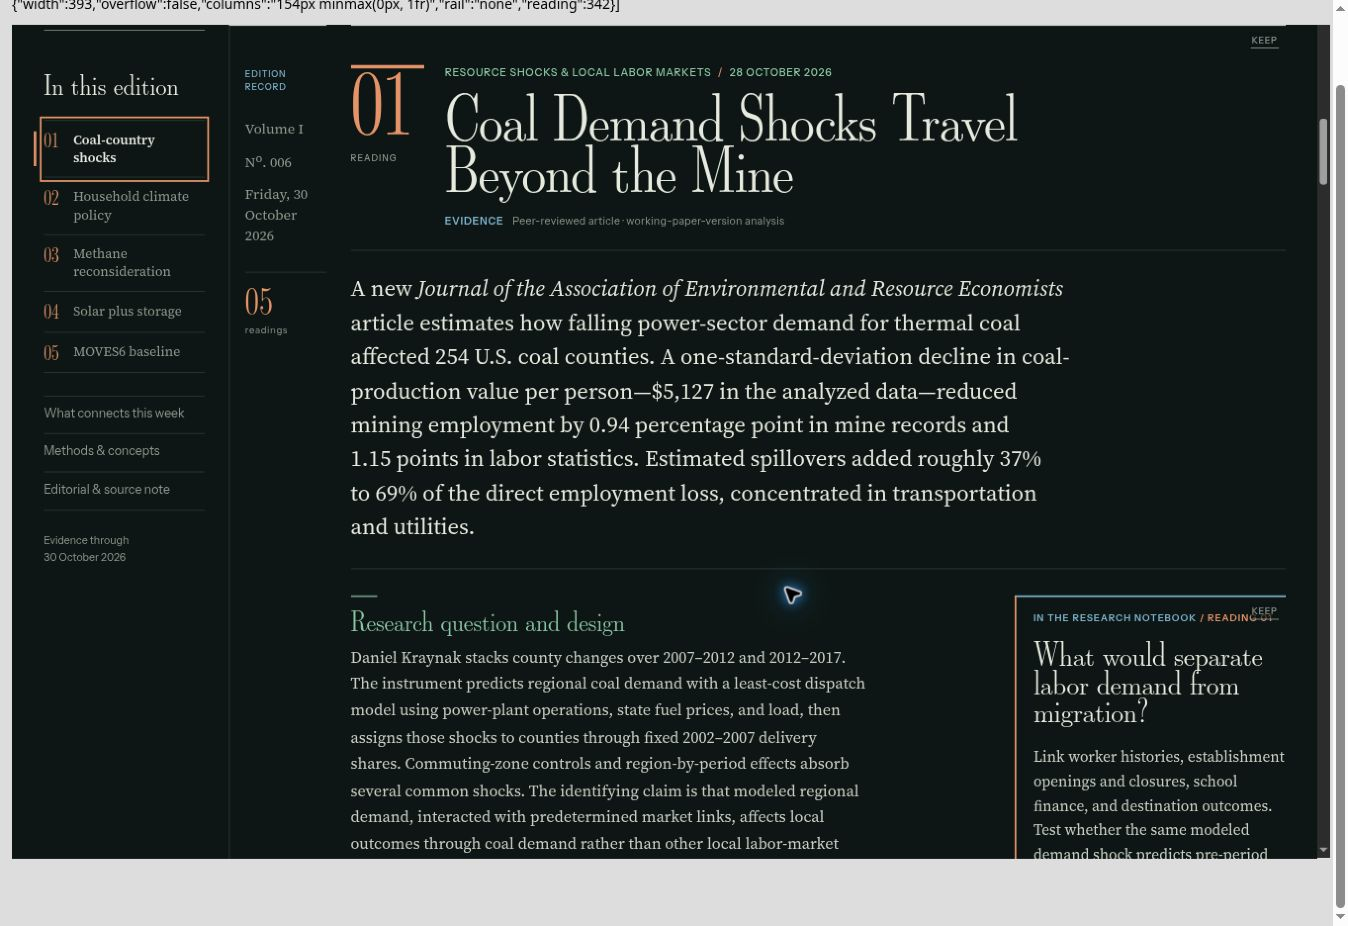
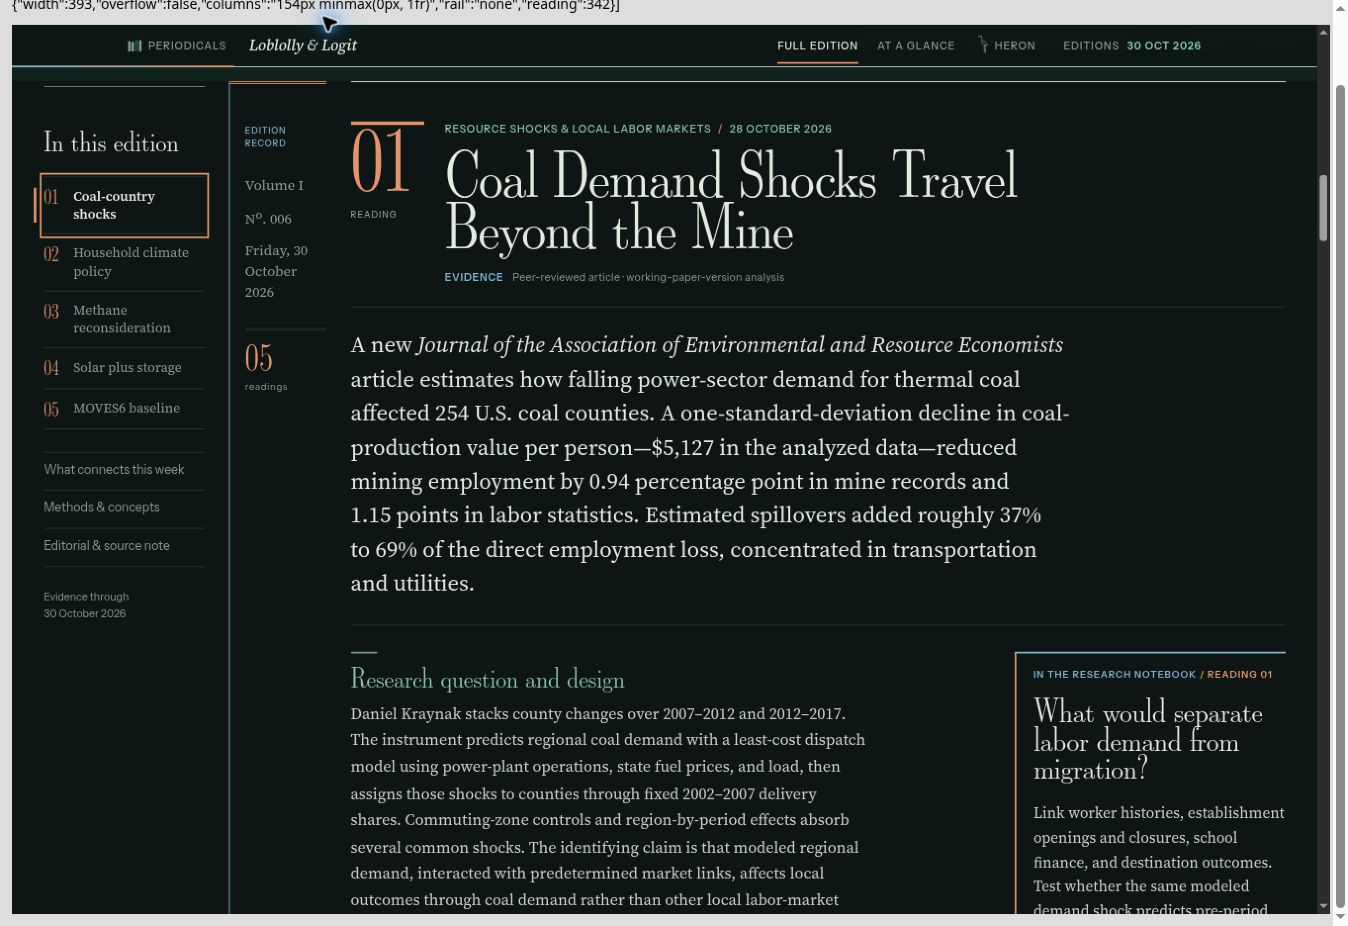
Polish L&L editorial rail rules with restrained copper detail

diff --git a/weekly-economics-environment/reading-folio.css b/weekly-economics-environment/reading-folio.css
@@ -11,12 +11,12 @@
 .editorial-rail{display:none}
 @media(min-width:1440px){
  .edition-body{grid-template-columns:184px 112px minmax(0,1fr);column-gap:28px}
- .editorial-rail{display:block;grid-column:2;grid-row:1;min-width:0;align-self:stretch;padding:48px 0 24px 18px;border-left:1px solid var(--hair);border-top:1px solid var(--ink)}
+ .editorial-rail{display:block;grid-column:2;grid-row:1;min-width:0;align-self:stretch;padding:46px 0 24px 18px;border-left:1px solid var(--river);border-top:3px double var(--clay)}
  .reading-column{grid-column:3}
  .rail-kicker{font:500 10px/1.5 var(--sans);letter-spacing:.09em;text-transform:uppercase;color:var(--river);margin-bottom:28px}
  .rail-edition{margin:0;font:400 16px/1.5 var(--serif);color:var(--muted)}
  .rail-edition .sep{display:block;height:12px;font-size:0}
- .rail-count{margin:30px 0 0;padding-top:16px;border-top:1px solid var(--hair);font:400 32px/1.1 var(--headline);color:var(--clay)}
+ .rail-count{margin:30px 0 0;padding-top:14px;border-top:3px double var(--hair);font:400 32px/1.1 var(--headline);color:var(--clay)}
  .rail-count span{display:block;margin-top:6px;font:400 11px/1.5 var(--sans);letter-spacing:.06em;color:var(--muted)}
 }
 body.glance .editorial-rail{display:none}

diff --git a/weekly-economics-environment/index.html b/weekly-economics-environment/index.html
@@ -626,7 +626,7 @@ body{overflow-x:clip}
 <meta name="apple-mobile-web-app-title" content="Periodicals">
 <meta name="apple-mobile-web-app-status-bar-style" content="default">
 <link rel="stylesheet" href="/personal-updates/mobile/mobile.css?v=20261002-instrument">
-<link rel="stylesheet" href="refinement.css?v=20261101-reading-folio"><link rel="stylesheet" href="reading-folio.css?v=20261102-editorial-rail"><link rel="stylesheet" href="../assets/identity/identity.css?v=20261012-seamless2">
+<link rel="stylesheet" href="refinement.css?v=20261101-reading-folio"><link rel="stylesheet" href="reading-folio.css?v=20261102-editorial-rail-rules"><link rel="stylesheet" href="../assets/identity/identity.css?v=20261012-seamless2">
 <style>
 /* Publication-specific authorship signatures; canonical IH. assets remain unchanged. */
 .ih-imprint .ih-native-wordmark{display:block;margin:0;padding:0;max-width:none;white-space:nowrap}

diff --git a/docs/ll-editorial-rail-20261102/README.md b/docs/ll-editorial-rail-20261102/README.md
@@ -6,7 +6,7 @@ Baseline: `2926414b6233f738795180b40a1475444b609467`. Independent of the Field B
 
 At 1440px and above: existing 184px chapter sidebar | 112px editorial rail | main readings, separated by 28px grid gaps. The existing 1462px maximum canvas is unchanged; the opening, hero, overview, closing sections and global navigation retain their presentation.
 
-The rail contains only the existing volume/edition/date label and a derived reading count. No analysis, findings, new editorial claims or links are invented. It is static, with a hairline boundary and the journal's existing typography/tokens; there is no new sticky/floating behavior, scripting, dependency or font. Future substantive content can occupy this same grid track. Current research notes stay within the main reading column in their original position.
+The rail contains only the existing volume/edition/date label and a derived reading count. No analysis, findings, new editorial claims or links are invented. It is static, with a river-ink vertical boundary, a fine double copper head rule, and a double hairline above the reading count, using the journal's existing typography/tokens; there is no new sticky/floating behavior, scripting, dependency or font. Future substantive content can occupy this same grid track. Current research notes stay within the main reading column in their original position.
 
 Below 1440px the rail disappears and the established layout resumes. Existing tablet/phone and research-note breakpoints are untouched. Glance and print hide the rail. The publication-time composer derives the register for every edition and refreshes it idempotently when preparing future content.
 
